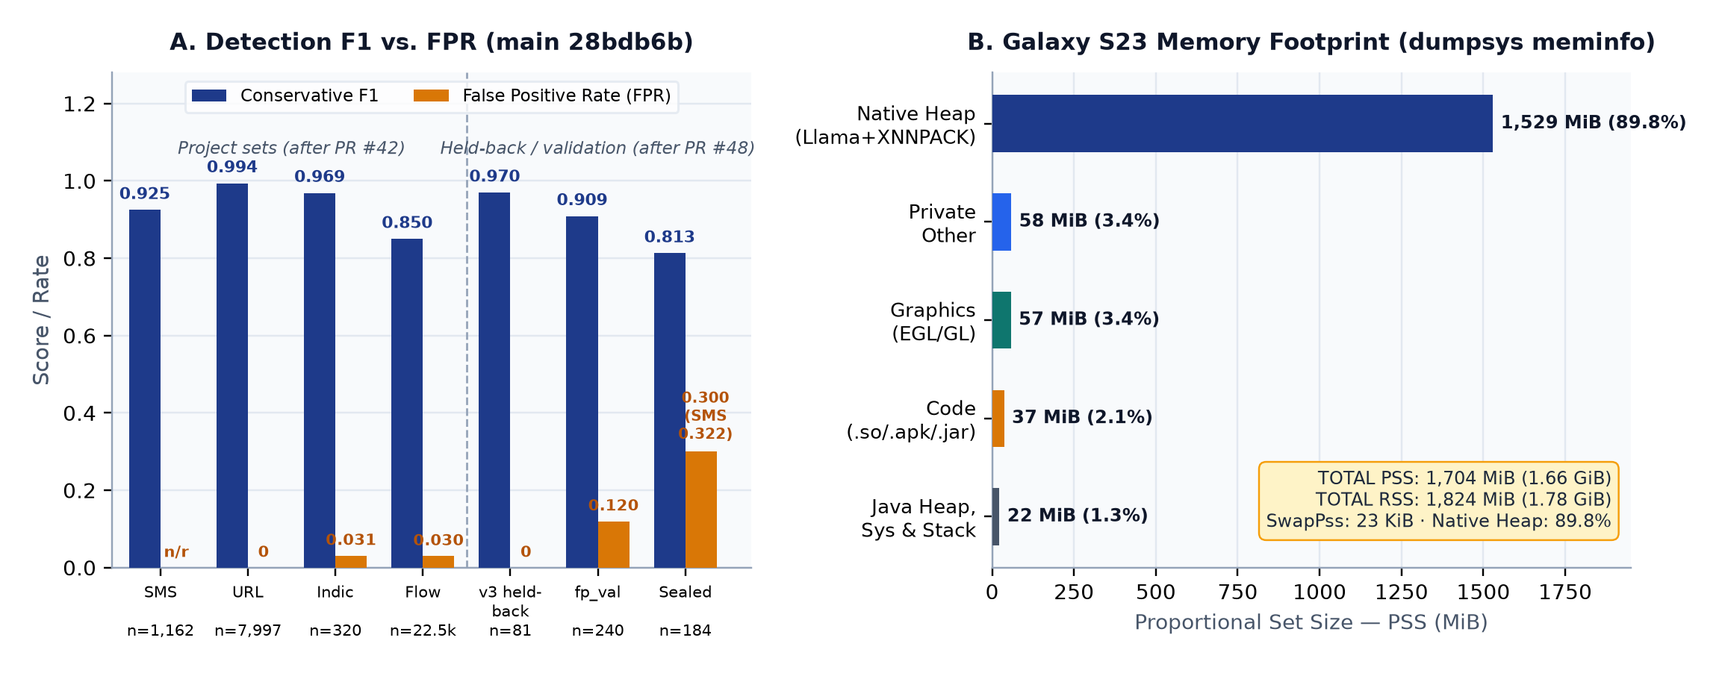
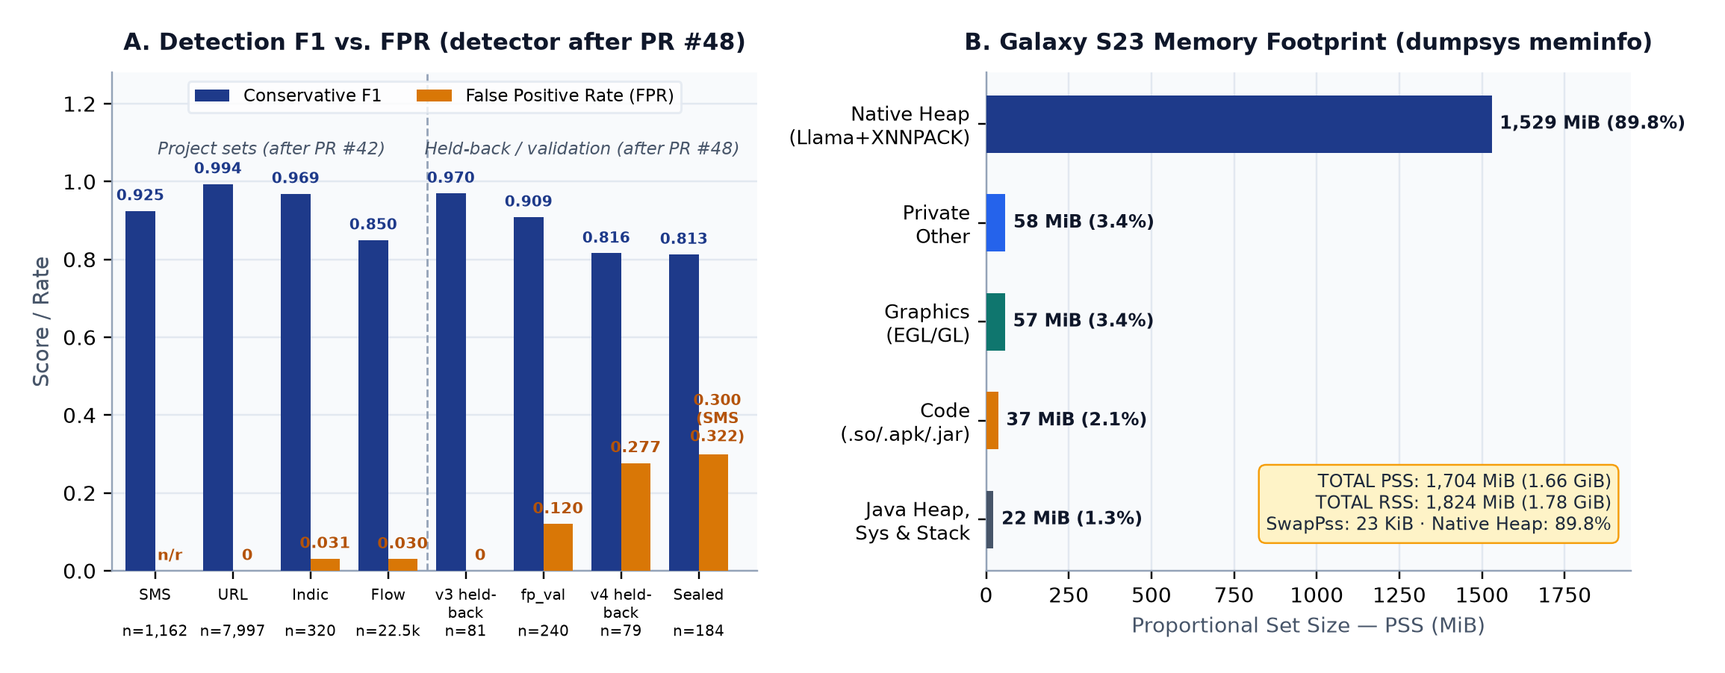
docs(phase1): cite #48's v4 held-back result (research/v4-heldout/RESULTS.md, PR #53 7029ad0)
v4 held-back (79, never seen by the fixing thread): FPR 0.340 -> 0.277, recall 0.969,
F1 0.785 -> 0.816; added to the exec summary, results table, figure, README,
LIMITATIONS and EVIDENCE. Adversarial 22/24 / 5/13 now cited as unchanged after #48.

diff --git a/docs/phase1/build_report.py b/docs/phase1/build_report.py
@@ -187,26 +187,27 @@ def build_eval_and_mem_chart() -> Path:
         "Flow\n\nn=22.5k",
         "v3 held-\nback\nn=81",
         "fp_val\n\nn=240",
+        "v4 held-\nback\nn=79",
         "Sealed\n\nn=184",
     ]
     # Project sets: last bin/eval after PR #42. Holdouts/validation: main 28bdb6b (after PR #48).
-    f1_vals = [0.925, 0.994, 0.969, 0.850, 0.970, 0.909, 0.813]
+    f1_vals = [0.925, 0.994, 0.969, 0.850, 0.970, 0.909, 0.816, 0.813]
     # Post-PR #42 SMS dev-set FPR was not recorded, so it is plotted as "n/r" rather than guessed.
-    fpr_vals = [float("nan"), 0.000, 0.031, 0.030, 0.000, 0.120, 0.300]  # SMS-route sealed FPR=0.322 annotated
+    fpr_vals = [float("nan"), 0.000, 0.031, 0.030, 0.000, 0.120, 0.277, 0.300]  # SMS-route sealed FPR=0.322 annotated
 
     x = np.arange(len(labels))
-    w = 0.36
+    w = 0.38
     b1 = ax1.bar(x - w / 2, f1_vals, width=w, color=INDIGO, label="Conservative F1", zorder=3)
     b2 = ax1.bar(x + w / 2, fpr_vals, width=w, color=AMBER, label="False Positive Rate (FPR)", zorder=3)
     ax1.axvline(3.5, color="#94A3B8", linestyle="--", linewidth=0.9, zorder=2)
     ax1.text(1.5, 1.07, "Project sets (after PR #42)", ha="center", fontsize=7.6, color=SLATE, style="italic")
-    ax1.text(5.0, 1.07, "Held-back / validation (after PR #48)", ha="center", fontsize=7.6, color=SLATE, style="italic")
+    ax1.text(5.5, 1.07, "Held-back / validation (after PR #48)", ha="center", fontsize=7.6, color=SLATE, style="italic")
 
     for b, v in zip(b1, f1_vals):
-        ax1.text(b.get_x() + b.get_width() / 2, v + 0.018, f"{v:.3f}", ha="center", va="bottom", fontsize=7.3, color=INDIGO, fontweight="bold")
+        ax1.text(b.get_x() + b.get_width() / 2, v + 0.018, f"{v:.3f}", ha="center", va="bottom", fontsize=6.6, color=INDIGO, fontweight="bold")
     for idx, (b, v) in enumerate(zip(b2, fpr_vals)):
         cx = b.get_x() + b.get_width() / 2
-        if idx == 6:
+        if idx == 7:
             ax1.text(cx + 0.05, v + 0.02, "0.300\n(SMS\n0.322)", ha="center", va="bottom", fontsize=6.6, color="#B45309", fontweight="bold")
         elif np.isnan(v):
             ax1.text(cx, 0.018, "n/r", ha="center", va="bottom", fontsize=7.0, color="#B45309", fontweight="bold")
@@ -215,13 +216,13 @@ def build_eval_and_mem_chart() -> Path:
             ax1.text(cx, v + 0.018, txt, ha="center", va="bottom", fontsize=7.0, color="#B45309", fontweight="bold")
 
     ax1.set_xticks(x)
-    ax1.set_xticklabels(labels, fontsize=7.0)
+    ax1.set_xticklabels(labels, fontsize=6.6)
     ax1.set_ylim(0, 1.28)
-    ax1.set_xlim(-0.55, 6.75)
+    ax1.set_xlim(-0.55, 7.75)
     ax1.set_ylabel("Score / Rate", fontsize=9.5, color=SLATE)
     ax1.tick_params(axis="y", labelsize=9)
     ax1.legend(loc="upper center", ncol=2, frameon=True, facecolor="white", edgecolor=GRID, fontsize=7.6)
-    ax1.set_title("A. Detection F1 vs. FPR (main 28bdb6b)", fontsize=10.0, fontweight="bold", color="#0F172A", pad=10)
+    ax1.set_title("A. Detection F1 vs. FPR (detector after PR #48)", fontsize=10.0, fontweight="bold", color="#0F172A", pad=10)
 
     # Panel B: Galaxy S23 dumpsys meminfo PSS breakdown (KB -> MB)
     _style_ax(ax2)

diff --git a/docs/phase1/report.md b/docs/phase1/report.md
@@ -14,7 +14,7 @@ Prahari is an offline, on-device cybersecurity triage assistant built for Indian
 | **Physical Arm Smartphone** | **Samsung Galaxy S23 (`SM-S911B`, Snapdragon 8 Gen 2, `arm64-v8a`)**: warm TTFT **510 ms** (499–510 ms), decode **43.4 tok/s**, total **1.20 s/check** (**1.42 s** in Airplane Mode `airplane_mode_on=1`), **1.66 GiB PSS** / 1.78 GiB RSS (`dumpsys`) | Real handset via Samsung Remote Test Lab (r1 APK). The final round-3 app (PR #45) has run only on an Android 14 emulator so far; the S23 re-run is pending [S9, S12] |
 | **Arm Linux & KleidiAI** | **Arm Neoverse-V2 (8 vCPU)**: **54.17%** of sampled CPU time inside **Arm KleidiAI** `kai_*` kernels (`perf`: 23.27% `i8mm` prefill, 20.57% `dotprod` decode); **1.73 s/item** at 2T (46.7 tok/s), **0.98 s/item** at 8T (**104.6 tok/s**) | `perf record -F 99 -g` (2,222 samples, 0 lost); `unshare -n` OS network-cut proof passed 6/6 [S10] |
 | **Offline Privacy** | Android app declares **no `INTERNET` permission** (`SecurityException` in 12 ms on S23) + ran in **Airplane Mode**; Linux verified under `unshare -n` (`lo` down; HTTPS/DNS/TCP fail, inference passes) | Model download/staging is one-time before offline use; external dialler/browser open separate apps [S9, S10] |
-| **Detection (Holdouts)** | **India v3 held-back (`n = 81`)**: F1 **0.970**, recall **0.941**, FPR **0.000** (0.889 / 0.128 after PR #42). **Sealed final holdout (`n = 184`)**: combined F1 **0.813**, recall **0.929**, combined FPR **0.300**, **SMS FPR 0.322** (was 0.402 before PR #48). **New blind validation set (`n = 240`)**: FPR **0.120**, recall **1.000** | Both holdouts reported; remaining sealed false alarms are mostly advisories with placeholder `.example` links and family scam-warning chats [S8, S11, S12] |
+| **Detection (Holdouts)** | **India v3 held-back (`n = 81`)**: F1 **0.970**, recall **0.941**, FPR **0.000** (0.889 / 0.128 after PR #42). **Sealed final holdout (`n = 184`)**: combined F1 **0.813**, recall **0.929**, combined FPR **0.300**, **SMS FPR 0.322** (was 0.402 before PR #48). **New blind validation set (`n = 240`)**: FPR **0.120**, recall **1.000**. **v4 held-back (`n = 79`, never seen by the fixing thread)**: FPR **0.340 -> 0.277**, recall **0.969** | Both holdouts reported; remaining sealed false alarms are mostly advisories with placeholder `.example` links and family scam-warning chats [S8, S11, S12] |
 | **Detection (Dev/Eval Sets)** | SMS F1 **0.925** (`n=1,162`), URL F1 **0.994** (`n=7,997`), Indic F1 **0.969** (`n=320`, FPR 3.1%), NSL-KDD flow replay F1 **0.850** (`n=22,544`); adversarial suite **22/24** caught, **5/13** harmless flagged | Repeatedly used development sets on Oracle Neoverse-N1 VM, last `bin/eval` after PR #42; conservative metrics (`uncertain` = error) [S8, S11] |
 | **Network Monitoring** | Rootless Linux live connection monitor (`bin/monitor` reading `/proc/net/tcp{,6}` + `/proc/net/snmp`) catches live loopback port scans; separate NSL-KDD tree replays 41-feature records | Socket-table + kernel-counter sampling on Linux (no root, no raw packet capture; Linux only) [S11] |
 
@@ -196,6 +196,7 @@ Table below reports the evaluation benchmarks side by side. Holdout and validati
 | **India v3 Held-Back** | **Independent split, unseen in PR #42 tuning** | **81** | 1.000 | **0.941** | **0.970** | **0.000** | Was 0.889 / FPR 0.128 (PR #42); used as a check in PR #48 |
 | **fp_val_v1 (PR #48)** | **New blind set: 150 genuine, 90 scam** | **240** | 0.833 | **1.000** | **0.909** | **0.120** | Was 0.853 / FPR 0.207 before PR #48 |
 | **v4_tune (PR #48)** | Independent dev set, used for tuning | 161 | 0.797 | 0.926 | 0.857 | 0.172 | Was 0.834 / FPR 0.215 |
+| **v4 held-back (PR #48)** | **Kept by the integrator, scored once per candidate** | **79** | 0.705 | **0.969** | **0.816** | **0.277** | Was 0.785 / FPR 0.340 (13 vs 16 false alarms of 47) |
 | **Sealed Final Holdout** | **Gemini-authored blind; scored at several checkpoints** | **184** | 0.722 | **0.929** | **0.813** | **0.300** | SMS FPR 0.322 (28/87); injection 0.154. See 6.2 |
 
 ### Honest Progression on the Sealed Final Holdout (`n = 184`)
@@ -210,11 +211,11 @@ The sealed holdout (84 malicious, 100 benign: 155 SMS-route [68 malicious, 87 be
 | `main` after PR #42 (`1eb8916`) | 0.784 | 0.929 | 0.370 | 0.402 (35/87) | 0.154 (2/13) |
 | **PR #48 (`80cc558`, scored once; = current `main` detector)** | **0.813** | **0.929** | **0.300** | **0.322 (28/87)** | **0.154 (2/13)** |
 
-**Why the two holdouts still differ:** PR #48 added a contact gate (a text-model score alone flags a message only when the reader has something to act on: a non-official link, number or chat handle, a request, an order to pay/share/install, or a threat) and clears harm words that appear only inside negated warnings ("RBI never asks for your OTP"). On the v3 held-back split this removed every false alarm (FPR 0.128 -> 0.000) with recall unchanged; on the new 240-message validation set (written blind from public RBI, NPCI, UIDAI and TRAI guidance, CC0, scored once before any change was driven by it) FPR fell 0.207 -> 0.120 with recall 1.000. The sealed holdout improved less (SMS false alarms 35 -> 28 of 87, recall unchanged): every link in it uses the `.example` placeholder, which the contact gate counts as a contact and the domain rules call risky, and its remaining false alarms are mostly advisories carrying such a link, chats warning relatives about scams, and doorstep/self-check messages (a clearing rule for those was dropped after reviewers hid demands behind it) [S8, S12].
+**Why the two holdouts still differ:** PR #48 added a contact gate (a text-model score alone flags a message only when the reader has something to act on: a non-official link, number or chat handle, a request, an order to pay/share/install, or a threat) and clears harm words that appear only inside negated warnings ("RBI never asks for your OTP"). On the v3 held-back split this removed every false alarm (FPR 0.128 -> 0.000) with recall unchanged; on the v4 held-back split, which the fixing thread never saw, FPR fell only 0.340 -> 0.277 (16 -> 13 of 47 genuine messages, recall 0.969 unchanged), mostly advisories, bank/OTP alerts, delivery notices and links to official or small-business sites; on the new 240-message validation set (written blind from public RBI, NPCI, UIDAI and TRAI guidance, CC0, scored once before any change was driven by it) FPR fell 0.207 -> 0.120 with recall 1.000. The sealed holdout improved less (SMS false alarms 35 -> 28 of 87, recall unchanged): every link in it uses the `.example` placeholder, which the contact gate counts as a contact and the domain rules call risky, and its remaining false alarms are mostly advisories carrying such a link, chats warning relatives about scams, and doorstep/self-check messages (a clearing rule for those was dropped after reviewers hid demands behind it) [S8, S12].
 
 ![Honest evaluation summary across benchmarks and Galaxy S23 dumpsys memory breakdown](img/fig-eval-summary.png){width=98%}
 
-*Figure 3 — Left: Conservative F1 vs. FPR. Project sets were last measured after PR #42; the v3 held-back split, `fp_val_v1` (its false alarms were inspected during PR #48) and the sealed holdout are on current `main` (after PR #48). Right: Physical Samsung Galaxy S23 `dumpsys meminfo` Proportional Set Size (PSS) breakdown showing Native Heap (Llama 3.2 1B + ExecuTorch XNNPACK) at 89.8% of 1.66 GiB total PSS.*
+*Figure 3 — Left: Conservative F1 vs. FPR. Project sets were last measured after PR #42; the v3 held-back split, `fp_val_v1` (its false alarms were inspected during PR #48), the v4 held-back split (scored at PR #48's head) and the sealed holdout reflect the PR #48 detector, unchanged on current `main`. Right: Physical Samsung Galaxy S23 `dumpsys meminfo` Proportional Set Size (PSS) breakdown showing Native Heap (Llama 3.2 1B + ExecuTorch XNNPACK) at 89.8% of 1.66 GiB total PSS.*
 
 ![Round-3 app on an Android 14 emulator: parcel scam](img/app-round3-parcel.png){width=23.5%} ![Genuine SBI debit alert: CHECK THIS ALERT](img/app-round3-bank-alert.png){width=23.5%} ![UPI refund QR link flagged](img/app-round3-upi.png){width=23.5%} ![Hindi mode: Hindi summary; AI card with the model sentence replaced by a safety step](img/app-round3-kyc-hindi.png){width=23.5%}
 
@@ -239,7 +240,7 @@ The sealed holdout (84 malicious, 100 benign: 155 SMS-route [68 malicious, 87 be
 
 ### Current Limitations (Candid Assessment)
 
-1. **False alarms on hard benign notices:** Sealed-holdout SMS FPR is **0.322** (combined 0.300), the new validation set's is 0.120, and adversarial harmless FPR was 5/13 (last measured after PR #42). Until genuine bank/advisory FPR falls below 10–15% on unseen data, automatic background SMS interception (`READ_SMS` / `NotificationListenerService`) remains intentionally disabled.
+1. **False alarms on hard benign notices:** Sealed-holdout SMS FPR is **0.322** (combined 0.300), the new validation set's is 0.120, the v4 held-back split's is 0.277, and adversarial harmless FPR is 5/13 (unchanged by PR #48). Until genuine bank/advisory FPR falls below 10–15% on unseen data, automatic background SMS interception (`READ_SMS` / `NotificationListenerService`) remains intentionally disabled.
 2. **Final app not yet run on a physical phone:** the S23 timing, memory and airplane-mode results come from the r1 APK. The final round-3 APK (PR #45, which also carries the PR #41/#43 fixes) has been checked only on an Android 14 x86_64 emulator; TalkBack and a memory trace are also untested. The S23 re-run is pending before the demo video.
 3. **Memory footprint on mid-range phones:** Galaxy S23 measured **1.66 GiB PSS / 1.78 GiB RSS** (`dumpsys`); app-displayed memory went from 1,692 MB after the first check to a 1,781 MB peak over 8 checks (1,773 MB at the end), leaving tight headroom on 4–6 GB Android phones. Longer runs are untested.
 4. **Missed hybrid scams & explanation limits:** 2/24 reviewer adversarial scams still bypass rules (typically mixing an official app mention with a secondary WhatsApp/unofficial link). PR #50's blind audits (pre-merge revisions) still rated 5 of 20 English explanations wrong (mostly repeating a wrong detector evidence phrase), Llama prose remains English (the Hindi summary is fixed text, not AI-written), and its stricter validator adds ~12% latency.
@@ -265,7 +266,7 @@ The sealed holdout (84 malicious, 100 benign: 155 SMS-route [68 malicious, 87 be
 - **[S9]** **Physical Samsung Galaxy S23 (`SM-S911B`, Snapdragon 8 Gen 2, `arm64-v8a`) Samsung Remote Test Lab run 8 (23 Nov 2026):** device properties, SHA-256 verification, 8 timed checks including Airplane Mode (`airplane_mode_on=1`), `dumpsys meminfo`, and `SecurityException` screenshot (raw run report, `meminfo.txt`, device properties and on-screen stats text in `docs/phase1/evidence/galaxy-s23/`; screenshots `docs/phase1/img/s23-*.png`).
 - **[S10]** **Arm Neoverse-V2 Linux benchmark (23 Nov 2026):** `perf record -F 99 -g` KleidiAI call-stack profile (54.17% `kai_*`), 1/2/4/8-thread scaling (3 repeats × 6 items), and `unshare -n` OS offline proof (raw logs, `perf` reports and per-run JSONL in `docs/phase1/evidence/neoverse-v2/`).
 - **[S11]** Merged `main` improvements through commit `1eb8916` (23 Nov 2026): PR #40 (rootless Linux live connection monitor), PR #41 (blind explanation honesty fixes), PR #42 (India v3 held-back F1 0.889 + post-PR #42 sealed holdout F1 0.784 / SMS FPR 0.402), and PR #43 (Android r2 UX, Hindi toggle, Share sheet, Listen TTS, evidence spans, opt-in history, pure-Python QR decoder).
-- **[S12]** Merged `main` through commit `28bdb6b` (24 Nov 2026): PR #48 (`7efa778`, SMS false-alarm fix; `research/fpfix/README.md`, sealed score in `docs/phase1/evidence/sealed-holdout/scores.json` and `research/LOG.md`), PR #49 (`1df1278`, Call Guard preview; `docs/call-guard.md`), PR #50 (`e0adb82`, grounded explanations, validator, Hindi summary; `research/explain-audit.md`), PR #46 via #51 (`28bdb6b`, UPI QR checker; `candidates/BEST/tests/test_upi.py`), PR #52 (`ed0c7a3`, a repeated opening is shown once), PR #45 (`6b5e199`, Android round 3; emulator screenshots `docs/phase1/img/app-round3-*.png`).
+- **[S12]** Merged `main` through commit `28bdb6b` (24 Nov 2026): PR #48 (`7efa778`, SMS false-alarm fix; `research/fpfix/README.md`, sealed score in `docs/phase1/evidence/sealed-holdout/scores.json` and `research/LOG.md`), PR #49 (`1df1278`, Call Guard preview; `docs/call-guard.md`), PR #50 (`e0adb82`, grounded explanations, validator, Hindi summary; `research/explain-audit.md`), PR #48's v4 held-back record `research/v4-heldout/RESULTS.md` (committed in PR #53, `c6ff106`), PR #46 via #51 (`28bdb6b`, UPI QR checker; `candidates/BEST/tests/test_upi.py`), PR #52 (`ed0c7a3`, a repeated opening is shown once), PR #45 (`6b5e199`, Android round 3; emulator screenshots `docs/phase1/img/app-round3-*.png`).
 - **[S13]** PR #44 (merge `5498500`): `docs/perf/README.md`, `docs/perf/methodology.md`, `docs/perf/optimisations.md`, `docs/perf/s23-rtl-runbook.md`, raw captures in `docs/perf/evidence/` (S23 run 8 XML/PNG/`meminfo.txt`/`logcat.txt`; Neoverse-V2 `threads.csv`, `perf` reports, `offline-proof.txt`), harness in `bench/perf/` with 16 tests in `bench/tests/test_perf_harness.py`.
 
 **Built with Llama.** Llama 3.2 1B Instruct weights are obtained separately by users/evaluators under Meta's [Llama 3.2 Community License](https://www.llama.com/llama3_2/license/) and [Acceptable Use Policy](https://www.llama.com/llama3_2/use-policy/). Third-party dataset licences (CC BY 4.0, Apache-2.0, UNB NSL-KDD terms requiring citation) and upstream framework licences (ExecuTorch/PyTorch/scikit-learn BSD-3-Clause, Arm KleidiAI Apache-2.0, Chaquopy MIT) apply to their respective components.

diff --git a/docs/phase1/LIMITATIONS.md b/docs/phase1/LIMITATIONS.md
@@ -6,7 +6,7 @@
 4. **Is it truly offline?** Yes at inference time. The Android APK declares **no `INTERNET` permission** (verified by CI `aapt` check and live `SecurityException` in 12 ms on S23) and completed inference on the S23 with **Airplane Mode ON (`airplane_mode_on=1`)**. On Arm Neoverse-V2 Linux, inference succeeded 6/6 inside an isolated `unshare -n` network namespace where HTTPS, DNS, and raw TCP all failed. One-time package install and model staging require a network-capable machine, and tapping `Call 1930` or `Report on Chakshu` opens separate system apps.
 5. **Does it monitor live network traffic?** On Linux, `candidates/BEST/bin/monitor` (PR #40) samples `/proc/net/tcp`, `/proc/net/tcp6`, and `/proc/net/snmp` every 0.5 s with no root and no packet capture to detect port scans, login-port repeats, half-open floods, periodic connections, and failed-connect/reset bursts. It is Linux-only (Android 10+ restricts `/proc/net`), misses connections shorter than the 0.5 s sampling interval except via address-less kernel counter jumps, and does not capture raw packet payloads.
 6. **How does the NSL-KDD flow model relate to `bin/monitor` and `bin/explain`?** They are separate paths. `bin/predict --task flow` runs a trained HistGradientBoosting model + 3 signatures over NSL-KDD's 41 named features as dataset replay (F1 0.850, FPR 3.03% on `KDDTest+`). `bin/monitor`, the web UI, and `bin/explain` classify plain-text network descriptions using flow text rules, so the two paths can disagree and `bin/explain` does not explain the tree model's verdict.
-7. **Why do the two holdouts differ (v3 held-back F1 0.970 vs. sealed 0.813)?** After PR #48 the v3 held-back split (`n = 81`) has no false alarms (FPR 0.000, recall 0.941) and the new blind 240-message validation set has FPR 0.120 at recall 1.000, but the older Gemini-authored sealed holdout (`n = 184`, scored at several checkpoints) still flags 28 of 87 genuine SMS (SMS FPR 0.322, combined FPR 0.300, recall 0.929). Every link in that holdout uses the `.example` placeholder, which the contact gate treats as a contact and the domain rules call risky; the rest of its false alarms are chats warning relatives about scams and doorstep/self-check notices. The v3 split was also used as a check during PR #48, so it is no longer untouched.
+7. **Why do the two holdouts differ (v3 held-back F1 0.970 vs. sealed 0.813)?** After PR #48 the v3 held-back split (`n = 81`) has no false alarms (FPR 0.000, recall 0.941) and the new blind 240-message validation set has FPR 0.120 at recall 1.000, but the v4 held-back split (79 messages the fixing thread never saw) still has FPR 0.277 (was 0.340), and the older Gemini-authored sealed holdout (`n = 184`, scored at several checkpoints) still flags 28 of 87 genuine SMS (SMS FPR 0.322, combined FPR 0.300, recall 0.929). Every link in that holdout uses the `.example` placeholder, which the contact gate treats as a contact and the domain rules call risky; the rest of its false alarms are chats warning relatives about scams and doorstep/self-check notices. The v3 split was also used as a check during PR #48, so it is no longer untouched.
 8. **Does Prahari routinely flag legitimate bank or OTP SMS?** Genuine-looking bank debit and OTP alerts without an unofficial contact are shown with an amber **CHECK THIS ALERT** banner rather than `DANGEROUS` (raised to SUSPICIOUS if the alert carries an unofficial link or private number), guiding the user to verify directly in their bank app. PR #48 cut false alarms on genuine messages (fp_val_v1 FPR 0.207 -> 0.120, sealed SMS FPR 0.402 -> 0.322), but advisories with their own link and scam-warning chats are still flagged too often — which is why background `READ_SMS` interception is intentionally off.
 9. **How fast and memory-heavy is it on a real phone?** On Galaxy S23 (8 GB RAM), warm text checks take **1.20–1.50 s** (1.42 s in Airplane Mode; the lookalike-URL check took 3.53 s), but `dumpsys meminfo` recorded **1.66 GiB PSS / 1.78 GiB RSS** (89.8% Native Heap). App-displayed memory went from 1,692 MB to a 1,781 MB peak across 8 checks (1,773 MB at the end); longer sessions are untested. Shrinking KV-cache context length and freeing per-check native buffers is needed for comfortable headroom on 4–6 GB phones.
 10. **What does Arm KleidiAI actually contribute?** Whole-process `perf record -F 99 -g` profiling on Arm Neoverse-V2 (2 threads, 2,222 samples, 0 lost) proved **54.17% of sampled CPU time** executes directly inside named `kai_*` kernels (`23.27%` `i8mm` prefill matmul + `20.57%` `dotprod` decode matmul + `10.33%` packing/helpers) invoked through ExecuTorch's XNNPACK delegate. No runtime KleidiAI disable flag was found in the installed ExecuTorch build, so dispatch is proven without claiming an unmeasured on/off speedup ratio.

diff --git a/docs/phase1/EVIDENCE.md b/docs/phase1/EVIDENCE.md
@@ -1,6 +1,6 @@
 # Evidence ledger
 
-Updated: 24 November 2026 (`main` commit `5498500`, through PR #44, #45 and #52). The fuller performance write-up and the unedited raw captures are in [`docs/perf/`](../perf/README.md); `docs/phase1/evidence/` keeps a smaller copy plus the sealed-holdout scores. **Physical phone unverified on the final build:** the S23 figures come from RTL run 8 on the r1 APK; the re-run on the final APK (`docs/perf/s23-rtl-runbook.md`) is pending. Paths below are relative to the repository root unless noted. Commands inspect recorded evidence; they are not instructions to run hidden evaluation. No hidden rows or item-level holdout texts are committed.
+Updated: 24 November 2026 (`main` commit `c6ff106`, through PR #53). The fuller performance write-up and the unedited raw captures are in [`docs/perf/`](../perf/README.md); `docs/phase1/evidence/` keeps a smaller copy plus the sealed-holdout scores. **Physical phone unverified on the final build:** the S23 figures come from RTL run 8 on the r1 APK; the re-run on the final APK (`docs/perf/s23-rtl-runbook.md`) is pending. Paths below are relative to the repository root unless noted. Commands inspect recorded evidence; they are not instructions to run hidden evaluation. No hidden rows or item-level holdout texts are committed.
 
 ## Core architecture, datasets, and historical baselines (`[S1]`–`[S7]`)
 
@@ -58,7 +58,7 @@ Measured **23 November 2026** on Debian 12, Linux 6.1.155, `aarch64`, ARM Neover
 
 | Claim | Status | Evidence and qualification |
 |:--|:--|:--|
-| PR #48: SMS false-alarm fix | Merged (merge `7efa778`) | `candidates/BEST/triage/mech.py` contact gate + negated-warning clearing; `research/fpfix/README.md`. Re-run on `28bdb6b` (24 Nov, `research/fpfix/score.py`) matches the PR: v3_test (81) FPR 0.000 / recall 0.941 / F1 0.970; fp_val_v1 (240) 0.120 / 1.000 / 0.909; v4_tune (161) 0.172 / 0.926 / 0.857; v3_tune (159) 0 / 1 / 1. **Sealed holdout scored once at `80cc558`:** SMS FPR 0.402 -> **0.322** (35 -> 28 of 87), recall 0.926 unchanged; combined F1 0.784 -> **0.813**, FPR 0.370 -> **0.300**, recall 0.929 (`docs/phase1/evidence/sealed-holdout/scores.json`; use disclosed in `research/LOG.md`). `detect.predict_text`, `mech.py`, `rules.py` and the model artifacts are unchanged between `80cc558` and `28bdb6b`, so the score applies to `main`. `bin/eval` was not rerun. |
+| PR #48: SMS false-alarm fix | Merged (merge `7efa778`) | `candidates/BEST/triage/mech.py` contact gate + negated-warning clearing; `research/fpfix/README.md`. Re-run on `28bdb6b` (24 Nov, `research/fpfix/score.py`) matches the PR: v3_test (81) FPR 0.000 / recall 0.941 / F1 0.970; fp_val_v1 (240) 0.120 / 1.000 / 0.909; v4_tune (161) 0.172 / 0.926 / 0.857; v3_tune (159) 0 / 1 / 1. **v4 held-back (79, kept by the integrator, scored once per candidate; `research/v4-heldout/RESULTS.md`, PR #53 `c6ff106`):** FPR 0.340 -> 0.277, recall 0.969, F1 0.785 -> 0.816 (message files not committed; split hashes recorded). **Sealed holdout scored once at `80cc558`:** SMS FPR 0.402 -> **0.322** (35 -> 28 of 87), recall 0.926 unchanged; combined F1 0.784 -> **0.813**, FPR 0.370 -> **0.300**, recall 0.929 (`docs/phase1/evidence/sealed-holdout/scores.json`; use disclosed in `research/LOG.md`). `detect.predict_text`, `mech.py`, `rules.py` and the model artifacts are unchanged between `80cc558` and `28bdb6b`, so the score applies to `main`. `bin/eval` was not rerun. |
 | PR #49: Call Guard preview | Merged (merge `1df1278`) | `triage/{asr,callrules,callguard}.py`, `bin/callguard`, `docs/call-guard.md`. Off unless `PRAHARI_CALL_GUARD=1`. Oracle N1, 4 synthetic clips: ASR 3.2–5.0 s/clip, 6.8–13.3 s/call with Llama, peak RSS 832 MiB (ASR) / 2,611 MiB (ASR + Llama); raw `candidates/BEST/artifacts/callguard_demo_*neoverse_n1*.json` + `.meta.json`. Not run on a phone. Whisper as a second model: `research/QUESTIONS.md` item 9. |
 | PR #50: Grounded explanations, validator, Hindi summary | Merged (merge `e0adb82`) | `triage/llm.py` (`key_fact`, `validate`), `triage/explain_hi.py`; audits in `research/explain-audit.md` (3 × 20 fresh items; EN wrong 3->5, 5->5, 3->5; HI accessibility 4.5->6.3, 3.5->5.45, 4.05->6.4). Latency +12% (interleaved A/B, 57 dev items). |
 | PR #46 via #51: UPI QR checker | Merged (merge `28bdb6b`) | `triage/upi.py`, `tests/test_upi.py`; `bin/predict --task upi`; Linux app and Android hooks. |

diff --git a/README.md b/README.md
@@ -26,6 +26,7 @@ Both holdout benchmarks are reported directly so the current false-alarm trade-o
 - **Fewer false alarms on genuine messages (PR #48, `7efa778`):** a contact gate and negated-warning clearing. Recall is unchanged on every set.
   - **India v3 held-back split (`n = 81`):** F1 **0.970**, recall **0.941**, false positive rate **0.000** (0.889 / 0.128 after PR #42; 0.761 / 0.213 before it).
   - **New blind validation set `research/fpfix/fp_val_v1` (`n = 240`, 150 genuine + 90 scam SMS):** FPR **0.207 → 0.120**, recall **1.000**, F1 **0.909**.
+  - **v4 held-back split (`n = 79`, never seen by the fixing thread, scored once per candidate; [record](research/v4-heldout/RESULTS.md)):** FPR **0.340 → 0.277**, recall **0.969**, F1 0.785 → 0.816. The smaller gain here is the most realistic estimate.
 - **Sealed final holdout (`n = 184`: 155 SMS-route, 29 injection-route; scored at several checkpoints, once for PR #48):** combined F1 **0.813**, recall **0.929**, combined FPR **0.300**, **SMS-route FPR 0.322** (28/87 genuine SMS flagged, down from 35/87; injection FPR 0.154). Earlier: PR #42 0.784 / FPR 0.37, `gen51` 0.802 / 0.31, PR #21 0.709 / 0.29. The remaining false alarms are mostly advisories with a placeholder `.example` link and chats warning relatives about scams.
 - **Repeatedly used project evaluation sets (Oracle, last `bin/eval` after PR #42):** SMS F1 **0.925** (`n = 1,162`), URL F1 **0.994** (`n = 7,997`, FPR 0%), Indic F1 **0.969** (`n = 320`, FPR 3.1%), NSL-KDD flow replay F1 **0.850** (`n = 22,544`, FPR 3.03%). Reviewer adversarial suite: **22/24** scams caught, **5/13** harmless flagged. India v2 adaptive validation: **0.839**.
 - **Explanation quality (PR #41):** After blind manual audits (20-item holdout audit: 5 correct, 8 weak, 7 wrong; plus 40-item shuffled audit and S23 inspection), PR #41 removed repeated openings, false absence assertions on `NO RISK` verdicts, and stray generated questions. Automated proxy explanation score rose **0.929 → 0.932**, consistency v2 **0.929 → 0.964**, grounding **27/28**. **PR #50** (`e0adb82`) grounds Llama's second sentence in a vetted per-scam-type fact, drops generated sentences that claim things the message lacks, and adds a fixed-text Hindi summary (labelled as not AI-written; Llama's text stays English). Its blind audits (3 × 20 fresh items, at pre-merge revisions; later changes not re-audited) still rated about 5 of 20 English explanations wrong, mostly by repeating a wrong detector evidence phrase, and the longer prompt is ~12% slower.
